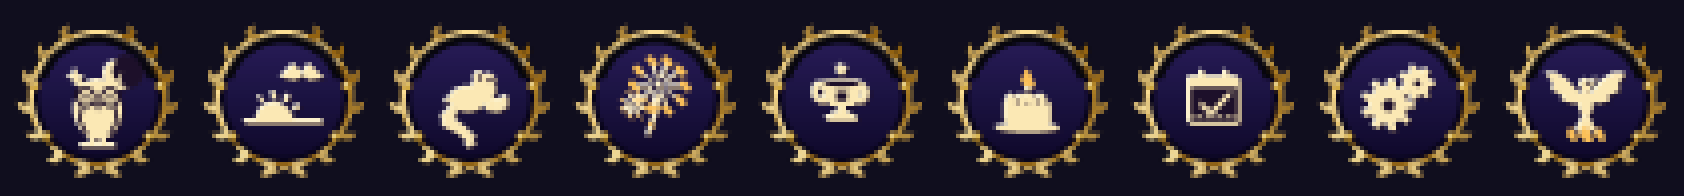
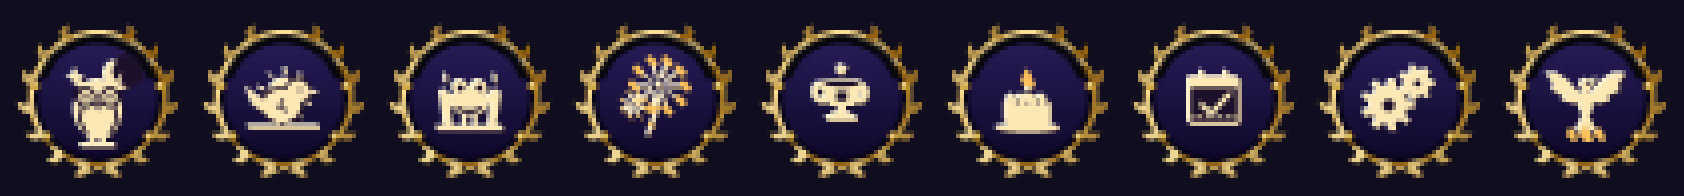
Batch 3 emblems — final revision: early_bird bird-focal, leap_of_faith coiled frog
Claude-Session: https://claude.ai/code/session_01ARwhW1U7KdSUdqvnUSuQi9

Changed region(s): [[0.247, 0.3367, 0.3088, 0.7653], [0.1235, 0.3061, 0.2162, 0.6735]]

diff --git a/tools/emblems_new/batch3.py b/tools/emblems_new/batch3.py
@@ -144,95 +144,118 @@ def _glyph_after_hours(surf, cx, cy, r, col):
 # ═══════════════════════════════════════════════════════════════════════════
 
 def _glyph_early_bird(surf, cx, cy, r, col):
-    horizon_y = cy + int(r * 0.58)
-    # sun sits left-of-centre so its rays keep clear of the bird up-right
-    sun_cx = cx - int(r * 0.22)
-    sun_r = int(r * 0.44)
-    # half-sun dome sitting on the horizon (upper semicircle fan)
-    fan = [(sun_cx + sun_r, horizon_y)]
-    for k in range(13):
-        a = math.pi * k / 12
-        fan.append((sun_cx + math.cos(a) * sun_r, horizon_y - math.sin(a) * sun_r))
-    pygame.draw.polygon(surf, col, [(int(x), int(y)) for x, y in fan])
-    # dawn rays fanning over the upper half — biased left/up so the top-right
-    # corner is reserved for the bird and the two never clot at 44px
-    for k in range(4):
-        a = math.pi * (k + 0.5) / 6 + math.radians(18)
+    # A BOLD perched songbird is the focal point, sitting on a twig in front of a
+    # rising-sun DISC (a full circle, not a dome, so it never reads as a hill).
+    # The bird is what makes the badge say "early BIRD", not "sunny landscape".
+    horizon_y = cy + int(r * 0.70)
+    sun_cx, sun_cy = cx + int(r * 0.04), cy - int(r * 0.06)
+    sun_r = int(r * 0.42)
+    pygame.draw.circle(surf, col, (sun_cx, sun_cy), sun_r)
+    # thin radial dawn rays — kept slim + clearly separated so they read as light,
+    # never as mountain peaks
+    for k in range(10):
+        a = k * math.tau / 10 - math.radians(90)
         x1 = sun_cx + math.cos(a) * sun_r * 1.24
-        y1 = horizon_y - math.sin(a) * sun_r * 1.24
+        y1 = sun_cy + math.sin(a) * sun_r * 1.24
         x2 = sun_cx + math.cos(a) * sun_r * 1.60
-        y2 = horizon_y - math.sin(a) * sun_r * 1.60
+        y2 = sun_cy + math.sin(a) * sun_r * 1.60
         pygame.draw.line(surf, col, (int(x1), int(y1)), (int(x2), int(y2)),
-                         max(2, int(r * 0.10)))
-    # horizon line
-    pygame.draw.line(surf, col, (cx - int(r * 0.94), horizon_y),
-                     (cx + int(r * 0.94), horizon_y), max(2, int(r * 0.11)))
-    # a bold gull-silhouette bird flying the clear upper-right, well off the sun
-    bx, by = cx + int(r * 0.46), cy - int(r * 0.56)
-    w = r * 0.52
-    bird = [
-        (bx - w, by + w * 0.10),
-        (bx - w * 0.36, by - w * 0.52),
-        (bx, by - w * 0.06),
-        (bx + w * 0.36, by - w * 0.52),
-        (bx + w, by + w * 0.10),
-        (bx + w * 0.34, by + w * 0.22),
-        (bx, by + w * 0.02),
-        (bx - w * 0.34, by + w * 0.22),
-    ]
-    pygame.draw.polygon(surf, col, [(int(x), int(y)) for x, y in bird])
+                         max(2, int(r * 0.08)))
+    # horizon / perch twig
+    pygame.draw.line(surf, col, (cx - int(r * 0.86), horizon_y),
+                     (cx + int(r * 0.86), horizon_y), max(3, int(r * 0.11)))
+
+    # The bird: a plump robin perched facing right, big enough to own the well.
+    # Every part is drawn first in the inset tone at a slight outset (a dark
+    # halo) so the gold bird separates cleanly from the gold sun behind it.
+    bcx, bcy = cx - int(r * 0.06), cy + int(r * 0.20)
+    hx, hy = bcx + int(r * 0.40), bcy - int(r * 0.36)
+    body = pygame.Rect(int(bcx - r * 0.46), int(bcy - r * 0.40),
+                       int(r * 0.92), int(r * 0.80))
+    tail = [(bcx - int(r * 0.30), bcy - int(r * 0.06)),
+            (bcx - int(r * 0.86), bcy - int(r * 0.46)),
+            (bcx - int(r * 0.70), bcy - int(r * 0.02)),
+            (bcx - int(r * 0.34), bcy + int(r * 0.22))]
+    beak = [(hx + int(r * 0.16), hy - int(r * 0.06)),
+            (hx + int(r * 0.52), hy + int(r * 0.02)),
+            (hx + int(r * 0.16), hy + int(r * 0.12))]
+
+    def _bird(fill, grow):
+        pygame.draw.ellipse(surf, fill, body.inflate(grow, grow))
+        pygame.draw.circle(surf, fill, (hx, hy), int(r * 0.28) + grow // 2)
+        pygame.draw.polygon(surf, fill, [(int(x), int(y)) for x, y in tail])
+        pygame.draw.polygon(surf, fill, [(int(x), int(y)) for x, y in beak])
+
+    _bird(_GLYPH_SH, int(r * 0.14))     # separating halo against the sun disc
+    _bird(col, 0)
+    # eye + a folded-wing groove so the perched bird reads at chip size
+    pygame.draw.circle(surf, _GLYPH_SH, (hx + int(r * 0.06), hy - int(r * 0.04)),
+                       max(2, int(r * 0.06)))
+    pygame.draw.lines(surf, _GLYPH_SH, False, [
+        (bcx + int(r * 0.02), bcy - int(r * 0.18)),
+        (bcx - int(r * 0.10), bcy + int(r * 0.04)),
+        (bcx + int(r * 0.14), bcy + int(r * 0.10)),
+    ], max(2, int(r * 0.08)))
+    # two legs down to the perch
+    for sgn in (-1, 1):
+        lx = bcx + sgn * int(r * 0.12)
+        pygame.draw.line(surf, col, (lx, bcy + int(r * 0.36)), (lx, horizon_y),
+                         max(2, int(r * 0.07)))
 
 
 # ═══════════════════════════════════════════════════════════════════════════
-# 3. leap_of_faith — a frog caught mid-leap up-right: bulging eyes on the head,
-#    powerful bent hind legs kicked back, front legs reaching forward, over a
-#    little arc of trajectory. The leap-year pun.
+# 3. leap_of_faith — a frog coiled to launch, viewed head-on on a baseline:
+#    eyes up, two big bent haunches symmetric about the body, feet planted. The
+#    coiled-spring crouch is the read that holds at chip size (the leap-year pun).
 # ═══════════════════════════════════════════════════════════════════════════
 
 def _glyph_leap_of_faith(surf, cx, cy, r, col):
-    lw_leg = max(3, int(r * 0.15))
-    # leap trajectory — a faint arc the frog rides
-    tr = pygame.Rect(int(cx - r * 0.78), int(cy - r * 0.10),
-                     int(r * 1.5), int(r * 1.2))
-    pygame.draw.arc(surf, col, tr, math.radians(28), math.radians(140),
-                    max(2, int(r * 0.07)))
+    base_y = cy + int(r * 0.74)
+    # the ground the frog pushes off — anchors the pose so no leg floats free
+    pygame.draw.line(surf, col, (cx - int(r * 0.80), base_y),
+                     (cx + int(r * 0.80), base_y), max(3, int(r * 0.10)))
 
-    # body — an oval angled up-right
-    bcx, bcy = cx - int(r * 0.04), cy + int(r * 0.06)
-    body = pygame.Rect(int(bcx - r * 0.44), int(bcy - r * 0.30),
-                       int(r * 0.88), int(r * 0.60))
+    bcx, bcy = cx, cy + int(r * 0.16)
+    # TWO bent hind legs, symmetric — raised knees flared out to each side, shins
+    # driving down to planted feet on the baseline. The M of the coiled haunches
+    # is drawn before the body so the body caps the hips cleanly.
+    lw_leg = max(5, int(r * 0.20))
+    for sgn in (-1, 1):
+        hip = (bcx + sgn * int(r * 0.26), bcy + int(r * 0.02))
+        knee = (bcx + sgn * int(r * 0.66), bcy - int(r * 0.30))   # raised knee
+        foot = (bcx + sgn * int(r * 0.52), base_y)
+        pygame.draw.lines(surf, col, False, [hip, knee, foot], lw_leg)
+        # webbed foot fan planted on the baseline
+        for da in (-0.45, 0.0, 0.45):
+            tx = foot[0] + int(math.sin(da) * r * 0.20) + sgn * int(r * 0.06)
+            pygame.draw.line(surf, col, foot, (tx, base_y - int(r * 0.16)),
+                             max(2, int(r * 0.08)))
+
+    # body — a broad rounded crouch
+    body = pygame.Rect(int(bcx - r * 0.46), int(bcy - r * 0.34),
+                       int(r * 0.92), int(r * 0.66))
     pygame.draw.ellipse(surf, col, body)
+    # two front feet planted under the chin
+    for sgn in (-1, 1):
+        fx = bcx + sgn * int(r * 0.14)
+        pygame.draw.line(surf, col, (fx, bcy + int(r * 0.26)), (fx, base_y),
+                         max(3, int(r * 0.09)))
 
-    # head — front-upper-right with two bulging eyes on top
-    hx, hy = cx + int(r * 0.34), cy - int(r * 0.22)
-    pygame.draw.circle(surf, col, (hx, hy), int(r * 0.30))
-    for dx, dy in ((-0.10, -0.28), (0.16, -0.24)):
-        ex, ey = hx + int(r * dx), hy + int(r * dy)
-        pygame.draw.circle(surf, col, (ex, ey), int(r * 0.16))
-        pygame.draw.circle(surf, _GLYPH_SH, (ex, ey), int(r * 0.07))
-
-    # front legs reaching up-right toward the leap
-    for fy in (-0.02, 0.14):
-        pygame.draw.lines(surf, col, False, [
-            (hx + int(r * 0.06), hy + int(r * (0.30 + fy))),
-            (hx + int(r * 0.34), cy + int(r * (0.14 + fy))),
-            (hx + int(r * 0.58), cy + int(r * (0.02 + fy))),
-        ], lw_leg)
-
-    # powerful hind legs kicked back — a bold Z of thigh + shin ending in a
-    # webbed foot fan, the frog-jump signature
-    for oy in (0.0, 0.16):
-        hip = (bcx - int(r * 0.30), bcy + int(r * (0.10 + oy)))
-        knee = (bcx - int(r * 0.62), bcy + int(r * (0.42 + oy)))
-        ankle = (bcx - int(r * 0.30), bcy + int(r * (0.56 + oy)))
-        foot = (bcx - int(r * 0.02), bcy + int(r * (0.78 + oy)))
-        pygame.draw.lines(surf, col, False, [hip, knee, ankle, foot],
-                          max(4, int(r * 0.17)))
-        # webbed toe fan at the foot
-        for da in (-0.5, 0.0, 0.5):
-            tx = foot[0] + int(math.cos(math.radians(60) + da) * r * 0.22)
-            ty = foot[1] + int(math.sin(math.radians(60) + da) * r * 0.22)
-            pygame.draw.line(surf, col, foot, (tx, ty), max(2, int(r * 0.09)))
+    # two big bulging eyes riding the top of the head — the unmistakable frog cue
+    for sgn in (-1, 1):
+        ex, ey = bcx + sgn * int(r * 0.24), bcy - int(r * 0.40)
+        pygame.draw.circle(surf, col, (ex, ey), int(r * 0.20))
+        pygame.draw.circle(surf, _GLYPH_SH, (ex, ey), int(r * 0.09))
+    # wide smile line so the crouch reads as a face-on frog
+    pygame.draw.arc(surf, _GLYPH_SH,
+                    (int(bcx - r * 0.34), int(bcy - r * 0.18),
+                     int(r * 0.68), int(r * 0.44)),
+                    math.radians(200), math.radians(340), max(2, int(r * 0.08)))
+    # a pair of upward push-off ticks — the launch impulse
+    for sgn in (-1, 1):
+        ax = bcx + sgn * int(r * 0.60)
+        pygame.draw.line(surf, col, (ax, bcy - int(r * 0.52)),
+                         (ax, bcy - int(r * 0.74)), max(2, int(r * 0.08)))
 
 
 # ═══════════════════════════════════════════════════════════════════════════
